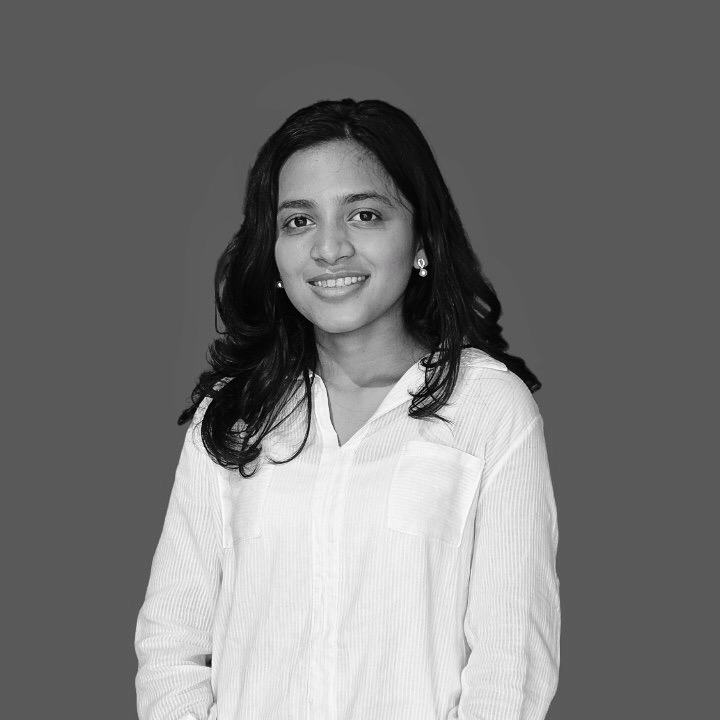
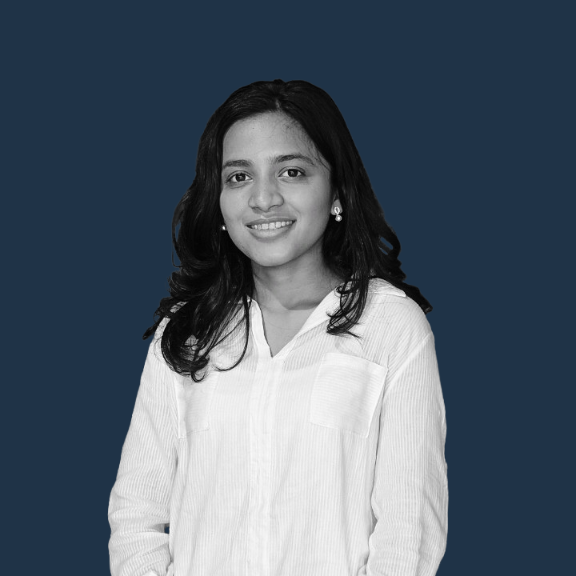
finalize color

diff --git a/website/src/index1.css b/website/src/index1.css
@@ -7,13 +7,13 @@
 
   /*========== Colors ==========*/
   /*Color mode HSL(hue, saturation, lightness)*/
-  --hue: 210; /* Color hue for a blue tone */
-  --sat: 50%; /* Saturation for vibrancy */
-  --title-color: hsl(var(--hue), var(--sat), 20%); /* Darker shade of blue */
-  --title-color-dark: hsl(var(--hue), var(--sat), 10%); /* Even darker shade */
-  --text-color: hsl(var(--hue), var(--sat), 40%); /* A lighter blue for general text */
-  --body-color: hsl(var(--hue), var(--sat), 95%); /* Very light blue for background */
-  --container-color: #FFFFFF; /* Pure white for containers */
+  --hue: 0;
+  --sat: 0%;
+  --title-color: hsl(var(--hue), var(--sat), 20%);
+  --title-color-dark: hsl(var(--hue), var(--sat), 0%);
+  --text-color: hsl(var(--hue), var(--sat), 46%);
+  --body-color: hsl(var(--hue), var(--sat), 98%);
+  --container-color: #fff;
 
   /*========== Font and typography ==========*/
   --body-font: "Poppins", sans-serif;
@@ -48,19 +48,6 @@
   --z-tooltip: 10;
   --z-fixed: 100;
   --z-modal: 1000;
-}
-
-/* Responsive typography */
-@media screen and (max-width: 992px) {
-  :root {
-    --big-font-size: 2.75rem;
-    --h1-font-size: 1.5rem;
-    --h2-font-size: 1.25rem;
-    --h3-font-size: 1rem;
-    --normal-font-size: 0.938rem;
-    --small-font-size: 0.813rem;
-    --smaller-font-size: 0.75rem;
-  }
 }
 
 /* Responsive typography */

diff --git a/website/src/about/About.css b/website/src/about/About.css
@@ -24,7 +24,7 @@
     padding: 1rem 1.25rem;
 }
 
-/* .about_icon {
+.about_icon {
     font-size: 1.5rem;
     color: var(--title-color);
     margin-bottom: var(--mb-0-5);
@@ -42,4 +42,45 @@
 .about_description {
     padding: 0 4rem 0 0;
     margin-bottom: var(--mb-2-5);
-} */
+}
+/* For large devices */
+@media screen and (max-width: 992px) {
+    .about_container {
+    grid-template-columns: 1fr;
+    row-gap: 2.5rem;
+    }
+    .about_img {
+    width: 220px;
+    }
+    .about_box {
+    padding: 0.75rem 0.5rem;
+    }
+    .about_data {
+    text-align: center;
+    } 
+    .about_info{
+    justify-content: center;
+    }
+    .about_description {
+        padding: 0 5rem;
+        margin-bottom: 2rem;
+    }
+}
+@media screen and (max-width: 576px) {
+    .about_info {
+        grid-template-columns: repeat(3, 1fr);
+       
+    }
+    .about_description {
+        padding: 0 ;
+    }
+
+}
+@media screen and (max-width: 350px) {
+    .about_info {
+        grid-template-columns: repeat(2, 1fr);
+       
+    }
+    
+
+}

diff --git a/website/src/header/Header.js b/website/src/header/Header.js
@@ -22,7 +22,7 @@ const Header = () => {
                         </li>
                         <li className="nav_item">
                             <a href="#resume" className="nav_link">
-                                <i className="uil uil-file-alt nav_icon"></i> Resume
+                                <i className="uil uil-file-alt nav_icon"></i> Skills
                             </a>
                         </li>
                         <li className="nav_item">
